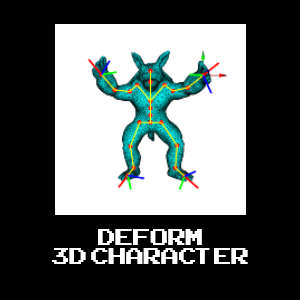
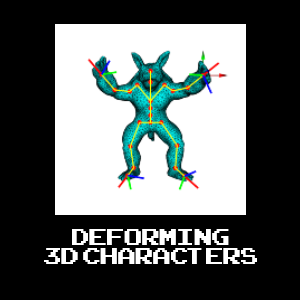
update ik

Changed region(s): [[0.15, 0.75, 0.87, 0.9]]

diff --git a/_posts/2024-07-16-inverse-kinematic.md b/_posts/2024-07-16-inverse-kinematic.md
@@ -1,6 +1,6 @@
 ---
 layout: post
-title:  "Implementing Skinning and Deforming 3D Characters"
+title:  "Deforming 3D characters"
 summary: "CSCI 520: My Journey with Inverse Kinematics in Computer Animation"
 preview: /assets/ik/preview.webp
 ---
